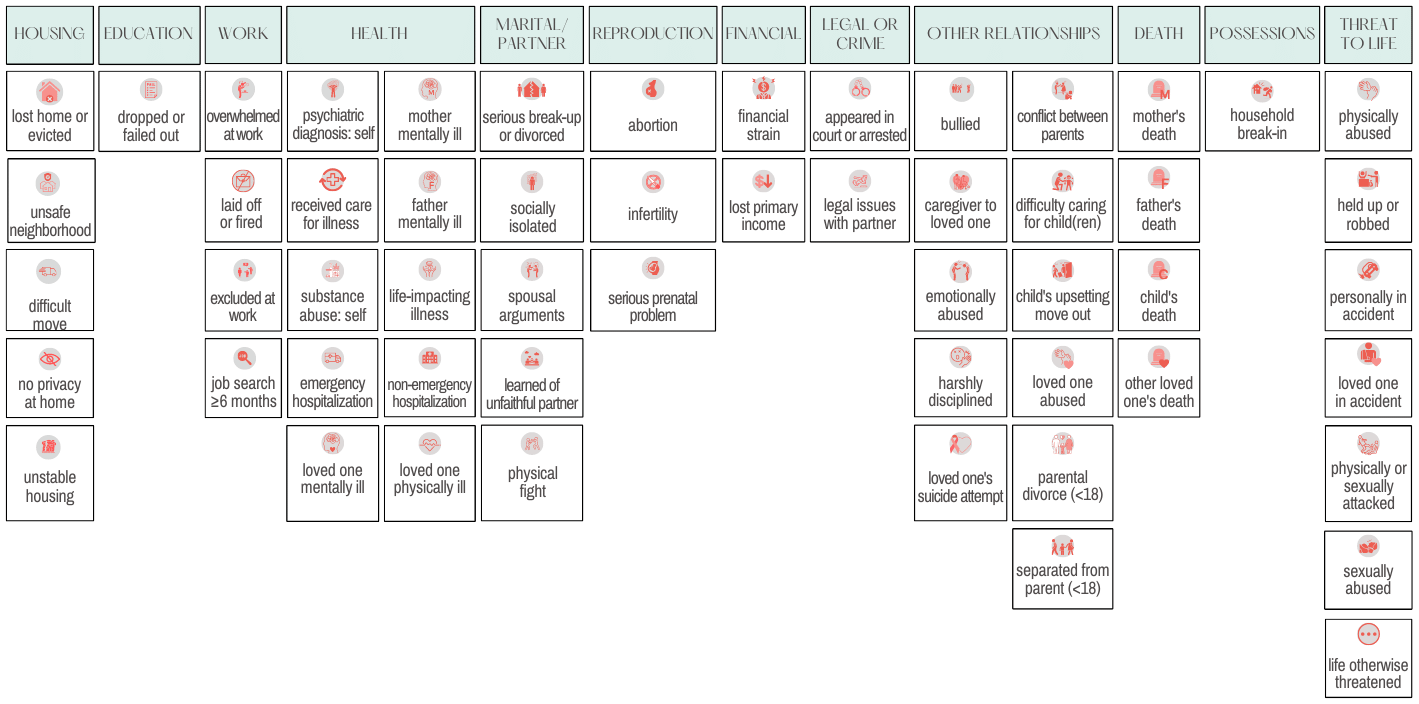
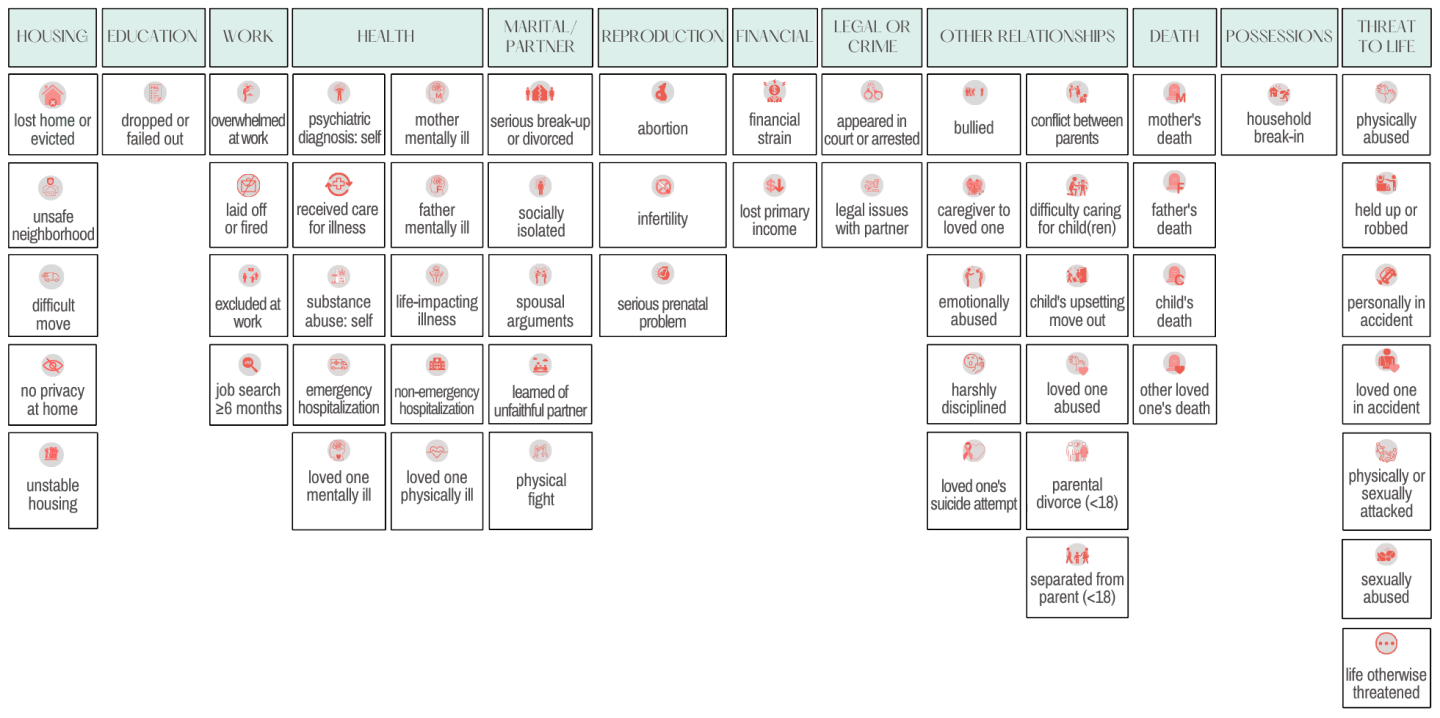
new table

Changed region(s): [[0.0, 0.0, 1.0, 1.0]]

diff --git a/src/ACEs.tsx b/src/ACEs.tsx
@@ -47,7 +47,7 @@ function ACEs({ patientName, userTotal, populationAverage, ACEs }: ACEsProps) {
                             <Indicator
                                 key={d}
                                 title={d}
-                                className={`w-1/5 h-[133px] border-black ${borders[i]}`}
+                                className={`w-1/5 h-[133px]}`}
                                 src={`${imgDir}/ace-${slugify(d)}.png`}
                                 {...ACEs[d]}
                             />
